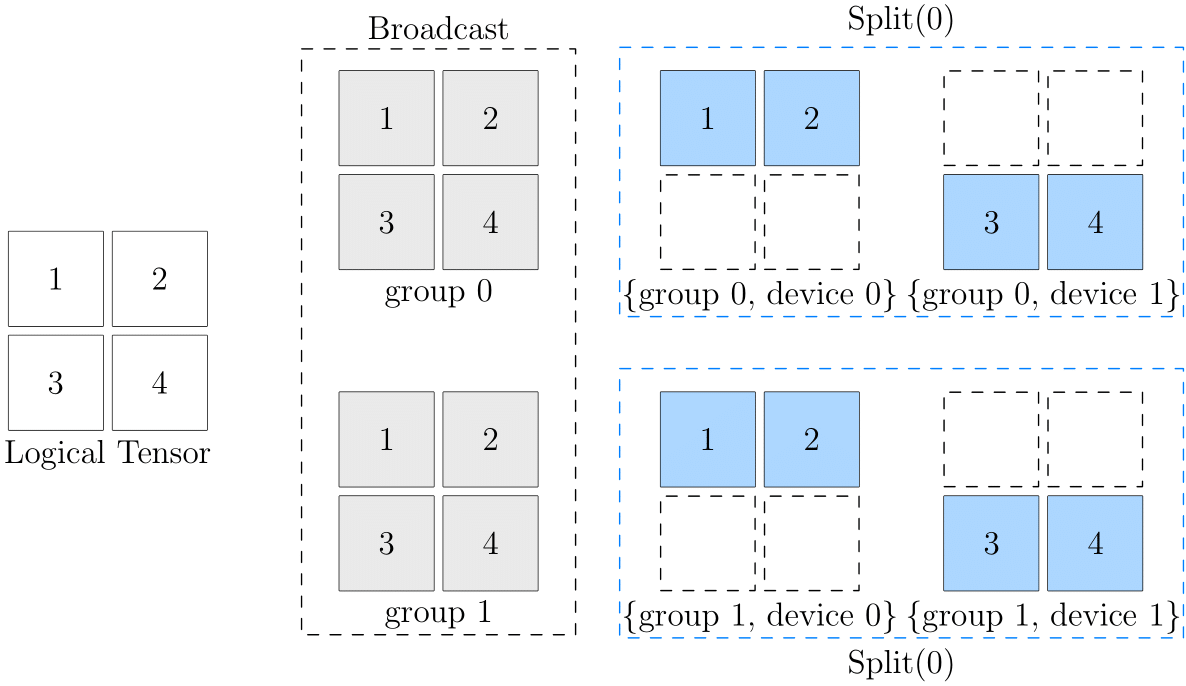
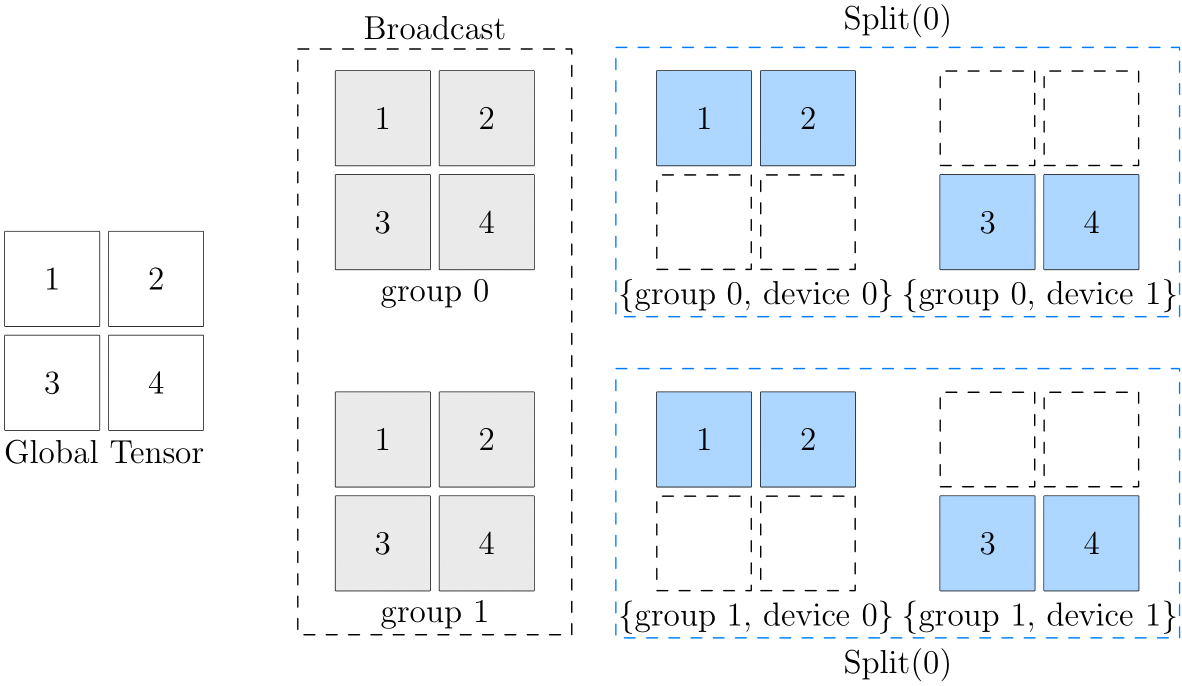
update

diff --git a/cn/docs/parallelism/04_2d-sbp.md b/cn/docs/parallelism/04_2d-sbp.md
@@ -1,21 +1,18 @@
 # 2D SBP
 
-阅读 [集群的一致性视角](./02_sbp.md) 和 [Consistent Tensor](./03_consistent_tensor.md) 之后，相信你已经掌握了 SBP 和 SBP Signature 的基本概念，并且能够上手相关的编程任务。实际上，以上资料中涉及都是 **1D SBP**。
+阅读 [集群的一致性视角](./02_sbp.md) 和 [Global Tensor](./03_consistent_tensor.md) 之后，相信你已经掌握了 SBP 和 SBP Signature 的基本概念，并且能够上手相关的编程任务。实际上，以上资料中涉及都是 **1D SBP**。
 
 本文将在读者掌握 1D SBP 的基础上，介绍 2D SBP，它能够更灵活地应对更复杂的分布式训练场景。
 
-## 2D SBP
-
-### 2D 设备矩阵
+## 2D 设备阵列
 
 我们已经熟悉 1D SBP 的 placement 配置，在 1D SBP 的场景下，通过 [oneflow.placement](https://start.oneflow.org/oneflow-api-cn/placement.html#oneflow.placement) 接口配置集群，比如使用第 0 号机器上的 0~3 号 GPU 显卡：
 
 ```python
 >>> placement1 = flow.placement("cuda", {0:[0,1,2,3]})
->>> placement2 = flow.placement("cuda", {0:[0,1], 1:[0,1]})
 ```
 
-其实，除了设备类型和使用的计算设备 2 个配置参数外， `oneflow.placement` 还有第三个参数，我们通过打印以上配置好的 `placement` 对象就可以发现：
+以上的 `"cuda"` 指定了设备类型，`{0:[0,1,2,3]}` 指定了集群中的计算设备。其实，除了设备类型和计算设备这 2 个配置参数外， `oneflow.placement` 还有第三个参数，我们通过打印以上配置好的 `placement` 对象就可以发现：
 
 ```python
 >>> placement1
@@ -24,39 +21,39 @@ oneflow.placement(device_type="cuda", machine_device_ids={0 : [0, 1, 2, 3]}, hie
 oneflow.placement(device_type="cuda", machine_device_ids={0 : [0, 1], 1 : [0, 1]}, hierarchy=(4,))
 ```
 
-可以发现，`placement` 其实还有第 3 个参数，它是一个 `tuple`，当我们不设置它时，它的值为 `(设备数目, )`。
+可以发现，`placement` 其实还有第 3 个参数，它是一个 `tuple`，当我们不设置它时，它的值为 `(设备总数, )`。
 
-这个参数用于描述集群中的设备分组，当不设置它时，默认所有的设备组成一个 1D 设备向量，是一维的，这也是 1D SBP 名称的由来。
+这个参数用于描述集群中的设备阵列，当不设置它时，默认所有的设备组成一个 1D 设备向量，是一维的，这也是 1D SBP 名称的由来。
 
-OneFlow 还支持把所有设备分组为设备矩阵，可以通过设置 `placement` 的第三个参数，显式指定设备矩阵的行、列大小。比如：
+OneFlow 还支持把所有设备分组为设备阵列，可以通过设置 `placement` 的第三个参数，显式指定设备阵列的行、列大小。比如：
 
 ```python
 >>> placement3 = flow.placement("cuda", {0:[0,1,2,3]}, (2,2))
 ```
 
-四个计算设备就被划分为了 $2 \times 2$ 的设备矩阵。
+四个计算设备就被划分为了 $2 \times 2$ 的设备阵列。
 
 
-### 2D SBP
+## 2D SBP
 
-我们已经知道，构造 Consistent Tensor 时，需要同时指定 `placement` 与 `SBP`。当 `placement` 中的集群是 2 维的设备矩阵时；SBP 也必需与之对应，是一个 2 维的 `tuple` 或者 `list`，这个`tuple` 或者 `list` 中的第 0 个、第 1 个 元素，分别描述了 Consistent Tensor 张量在设备矩阵第 0 维、第 1 维的分布。
+我们已经知道，构造 Global Tensor 时，需要同时指定 `placement` 与 `SBP`。当 `placement` 中的集群是 2 维的设备阵列时；SBP 也必需与之对应，是一个长度为 2 的 `tuple` 或者 `list`，这个`tuple` 或者 `list` 中的第 0 个、第 1 个 元素，分别描述了 Global Tensor 张量在设备阵列第 0 维、第 1 维的分布。
 
-比如，以下代码，配置了 $2 \times 2$ 的设备矩阵，并且设置 2D SBP 为 `(broadcast, split(0))`。
+比如，以下代码，配置了 $2 \times 2$ 的设备阵列，并且设置 2D SBP 为 `(broadcast, split(0))`。
 
 ```python
 >>> a = flow.Tensor([[1,2],[3,4]])
 >>> placement = flow.placement("cuda", {0:[0,1], 1:[0,1]}, (2,2))
 >>> sbp = (flow.sbp.broadcast, flow.sbp.split(0))
->>> a_to_consistent = a.to_consistent(placement=placement, sbp=sbp)
+>>> a_to_global = a.to_global(placement=placement, sbp=sbp)
 ```
 
-它意味着，逻辑上的数据，在整个设备矩阵上，在第 0 维度（“竖着看”）做 `broadcast`；在第 1 维度（“横着看”）做 `split(0)`。
+它意味着，逻辑上的数据，在整个设备阵列上，在第 0 维度（“竖着看”）做 `broadcast`；在第 1 维度（“横着看”）做 `split(0)`。
 
 我们通过下图做阐述：
 
 ![](./imgs/2d-sbp.png)
 
-此图的最左边是逻辑上的数据，最右边是设备矩阵上各个设备的数据。可以看到，从第 0 维的角度看，它们都是 `broadcast` 的关系：
+此图的最左边是逻辑上的数据，最右边是设备阵列上各个设备的数据。可以看到，从第 0 维的角度看，它们都是 `broadcast` 的关系：
 
 - (group0, device0) 与 (group1, device0) 中数据一致，互为 `broadcast` 关系
 - (group0, device1) 与 (group1, device1) 中数据一致，互为 `broadcast` 关系
@@ -66,10 +63,10 @@ OneFlow 还支持把所有设备分组为设备矩阵，可以通过设置 `plac
 - (group0, device0) 与 (group0, device1) 互为 `split(0)` 关系
 - (group1, device0) 与 (group1, device1) 互为 `split(0)` 关系
 
-直接理解逻辑数据和最终的设备矩阵中的物理数据对应关系可能有一定难度，大家在思考 2D SBP 时，可以假想一个上图中中间灰色图形那样的中间状态，以 `(broadcast, split(0))` 为例：
+直接理解逻辑数据和最终的设备阵列中的物理数据对应关系可能有一定难度，大家在思考 2D SBP 时，可以假想一个上图中中间灰色图形那样的中间状态，以 `(broadcast, split(0))` 为例：
 
 - 原始逻辑张量，先经过 `broadcast`，广播到 2 个 group 上，得到中间的状态
-- 在中间状态的基础上，继续在各自的 group 上，做 `split(0)`，得到最终设备矩阵中各个物理张量的状态
+- 在中间状态的基础上，继续在各自的 group 上，做 `split(0)`，得到最终设备阵列中各个物理张量的状态
 
 ## 2D SBP Signature
 
@@ -79,18 +76,15 @@ OneFlow 还支持把所有设备分组为设备矩阵，可以通过设置 `plac
 
 我们以矩阵乘法为例，先回顾 1D SBP 的情况，假定有 $x \times w = y$ 可以有以下的 SBP Signature：
 
-- $ broadcast \times split(1) = split(1) $
-- $ split(0) \times broadcast = split(0) $
+$$ broadcast \times split(1) = split(1) $$
+
+以及
+
+$$ split(0) \times broadcast = split(0) $$
 
 现在，假定我们给 $x$ 设置了 2D SBP 为：$(broadcast, split(0))$， 给 $w$ 设置 2D SBP 为 $(split(0), broadcast)$，那么，在 2D SBP 的背景下， $x \times w = y$ 运算，得到 $y$ 的 SBP
  属性为 $(split(1), split(0))$。
 
- 也就是说，以下几个 2D SBP，构成矩阵乘法的要给 SBP Signature：
+ 也就是说，以下几个 2D SBP，构成矩阵乘法的 2D SBP Signature：
 
- $$(broadcast, split(0) \times (split(0), broadcast) => (split(1), split(0))$$
-
- ### 2D SBP 的优点
-
-## 2D SBP 实例
-
-https://github.com/Oneflow-Inc/libai/pull/19/files
+$$ (broadcast, split(0)) \times (split(0), broadcast) =  (split(1), split(0)) $$
